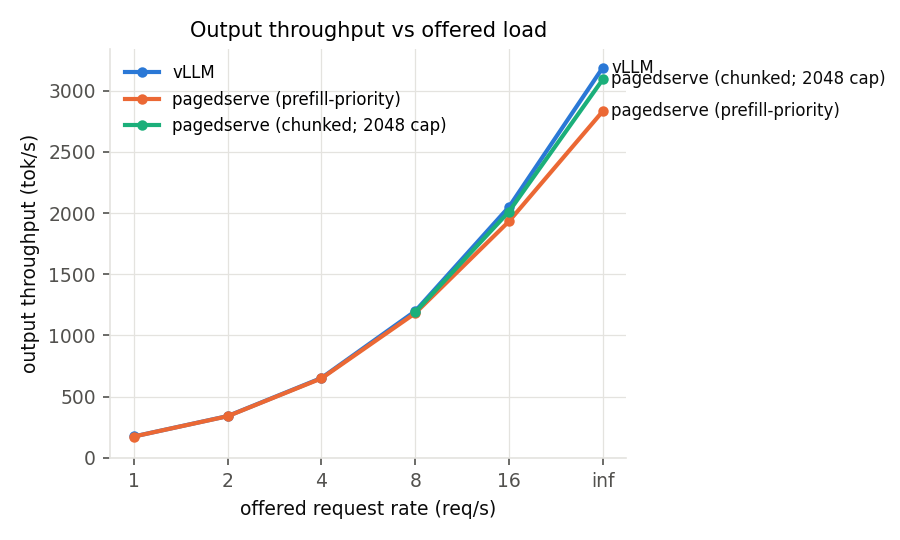
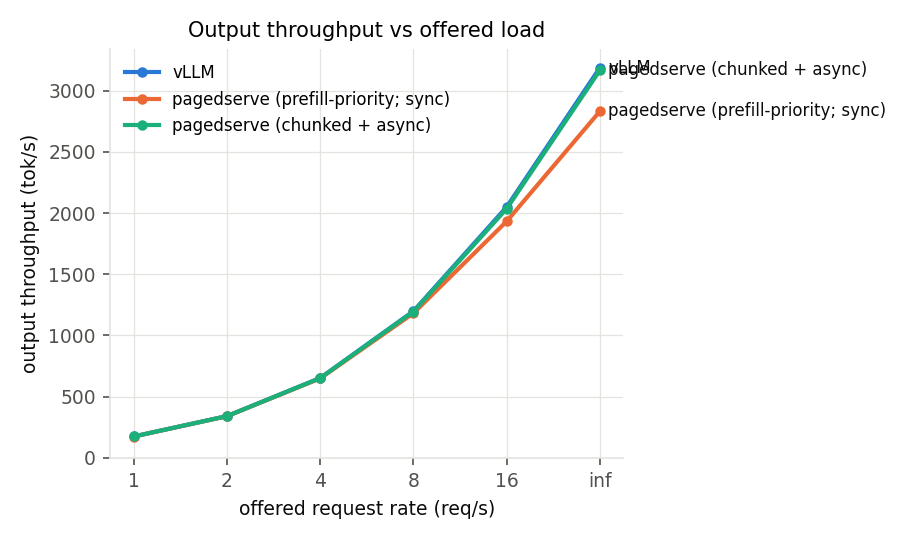
7B measured with the new defaults: v7 (async + chunked) 3,166 tok/s = 99% of vLLM, TPOT 12.6/16.5 ms at 8/16 req/s; piecewise graphs cost 1% there (padded chunks are real compute at 7B), so piecewise defaults on only for checkpoints under 4 GB and chunked prefill on CUDA wherever the mixed step is n
Claude-Session: https://claude.ai/code/session_01JS2Me66WkkvXnWKiASyDpV

diff --git a/pagedserve/cli.py b/pagedserve/cli.py
@@ -28,16 +28,19 @@ def _add_engine_args(p: argparse.ArgumentParser) -> None:
     p.add_argument("--piecewise-cuda-graphs", dest="piecewise_cuda_graphs", action="store_true",
                    default=None,
                    help="also replay prefill / mixed (chunked-prefill) steps from per-layer graphs "
-                        "with attention run eagerly between them. Default: on whenever "
-                        "--enable-cuda-graphs is (A100, 0.5B: chunked prefill went from -11%% to "
-                        "+4%% at saturation, TTFT at 1 req/s 20 -> 9 ms)")
+                        "with attention run eagerly between them. Default: on with "
+                        "--enable-cuda-graphs for checkpoints under 4 GB (A100, 0.5B: chunked "
+                        "prefill went from -11%% to +4%% at saturation, TTFT at 1 req/s 20 -> 9 ms), "
+                        "off above (7B: -1%% and a longer TPOT tail, the bucket padding costs real "
+                        "compute there)")
     p.add_argument("--no-piecewise-cuda-graphs", dest="piecewise_cuda_graphs", action="store_false")
     p.add_argument("--enable-chunked-prefill", dest="enable_chunked_prefill", action="store_true",
                    default=None,
                    help="mix decode tokens and prompt chunks in every step; --max-num-batched-tokens "
-                        "becomes the per-step cap. Default: on for --device cuda (with piecewise CUDA "
-                        "graphs it wins at every model size measured: +8%% at 7B, +4%% at 0.5B), off "
-                        "otherwise; 2048-token cap unless --max-num-batched-tokens is given")
+                        "becomes the per-step cap. Default: on for --device cuda except for a small "
+                        "checkpoint served without CUDA graphs (an eager mixed step loses to a "
+                        "graph-replayed decode step: -11%% at 0.5B); +8%% at 7B, +4%% at 0.5B with "
+                        "piecewise graphs; 2048-token cap unless --max-num-batched-tokens is given")
     p.add_argument("--no-chunked-prefill", dest="enable_chunked_prefill", action="store_false")
     p.add_argument("--async-scheduling", dest="async_scheduling", action="store_true", default=None,
                    help="launch step N+1 before reading step N's tokens back (vLLM v1 style): the "
@@ -58,18 +61,23 @@ def checkpoint_bytes(model_dir: str | None) -> int:
         return 0
 
 
+SMALL_CHECKPOINT_BYTES = 4 * 1024 ** 3  # below: a step is launches; above: it is math
+
+
 def engine_config_from_args(args: argparse.Namespace) -> EngineConfig:
     cuda = args.device.startswith("cuda")
+    small = checkpoint_bytes(args.model) < SMALL_CHECKPOINT_BYTES
     piecewise = args.piecewise_cuda_graphs
     if piecewise is None:
-        piecewise = bool(args.enable_cuda_graphs)
+        # Piecewise graphs trade bucket padding (compute) for launches (CPU). A100: at 0.5B
+        # chunked prefill went from -11% to +4% at saturation and TTFT halved; at 7B the
+        # padded chunk costs real FLOPs (-1%, TPOT tail 16.5 -> 19.9 ms at 16 req/s).
+        piecewise = bool(args.enable_cuda_graphs) and small
     chunked = args.enable_chunked_prefill
     if chunked is None:
-        # With piecewise graphs a mixed step replays from graphs too, and chunked prefill
-        # wins at every size measured on the A100 (7B: +8%; 0.5B: +4% and half the TTFT).
-        # Without them mixed steps run eagerly, which cost 11% at 0.5B; then it is only
-        # worth it from a few billion parameters up.
-        chunked = cuda and (piecewise or checkpoint_bytes(args.model) >= 4 * 1024 ** 3)
+        # Chunked prefill wins wherever the mixed step is not paying eager launch overhead:
+        # +8% at 7B (any mode), +4% at 0.5B on piecewise graphs, -11% at 0.5B eagerly.
+        chunked = cuda and (piecewise or not small)
     budget = args.max_num_batched_tokens
     if budget is None:
         budget = 2048 if chunked else 8192

diff --git a/tests/test_server.py b/tests/test_server.py
@@ -309,11 +309,11 @@ def test_cli_defaults_by_device_and_checkpoint_size(tmp_path):
         return engine_config_from_args(build_parser().parse_args(["serve", "--model", str(tmp_path), *extra]))
 
     (tmp_path / "model.safetensors").write_bytes(b"\0" * 1024)  # a tiny checkpoint
-    # CUDA + graphs: piecewise graphs on, hence chunked prefill on at any size
+    # small + graphs: piecewise on, hence chunked prefill on
     c = cfg("--device", "cuda", "--enable-cuda-graphs")
     assert c.async_scheduling and c.piecewise_cuda_graphs and c.enable_chunked_prefill
     assert c.max_num_batched_tokens == 2048
-    # CUDA without graphs: mixed steps would run eagerly, so a tiny checkpoint stays prefill-priority
+    # small without graphs: mixed steps would run eagerly, so it stays prefill-priority
     c = cfg("--device", "cuda")
     assert c.async_scheduling and not c.piecewise_cuda_graphs and not c.enable_chunked_prefill
     assert c.max_num_batched_tokens == 8192
@@ -323,9 +323,11 @@ def test_cli_defaults_by_device_and_checkpoint_size(tmp_path):
     assert not c.piecewise_cuda_graphs and not c.enable_chunked_prefill and not c.async_scheduling
     c = cfg("--device", "cuda", "--enable-chunked-prefill")
     assert c.enable_chunked_prefill and c.max_num_batched_tokens == 2048
-    # a big checkpoint (sparse file: size without the bytes) turns chunked prefill on even eagerly
+    # a big checkpoint (sparse file: size without the bytes): chunked on, piecewise off
     big = tmp_path / "model-00002.safetensors"
     with open(big, "wb") as f:
         f.truncate(5 * 1024 ** 3)
-    c = cfg("--device", "cuda")
-    assert c.enable_chunked_prefill and c.max_num_batched_tokens == 2048
+    c = cfg("--device", "cuda", "--enable-cuda-graphs")
+    assert c.enable_chunked_prefill and not c.piecewise_cuda_graphs and c.max_num_batched_tokens == 2048
+    c = cfg("--device", "cuda", "--enable-cuda-graphs", "--piecewise-cuda-graphs")
+    assert c.piecewise_cuda_graphs

diff --git a/deploy/runpod/handler.py b/deploy/runpod/handler.py
@@ -17,7 +17,8 @@ the chunks aggregated (`return_aggregate_stream`).
 Environment (all optional): MODEL_DIR (a snapshot baked into the image; default
 /models/model), MODEL_REPO (download at cold start instead), DTYPE (float16), ATTN_BACKEND
 (paged_flash), BLOCK_SIZE (256), MAX_MODEL_LEN (4096), MAX_NUM_SEQS (256), CUDA_GRAPHS (1),
-PIECEWISE_CUDA_GRAPHS (1), CHUNKED_PREFILL (default: on with piecewise graphs),
+PIECEWISE_CUDA_GRAPHS (default: on for checkpoints under 4 GB), CHUNKED_PREFILL (default: on
+except small checkpoints without graphs),
 ASYNC_SCHEDULING (1), MAX_CONCURRENCY (jobs per worker, 64).
 """
 
@@ -41,10 +42,14 @@ def env(name: str, default: str) -> str:
 def engine_config(model_dir: str | None = None) -> EngineConfig:
     """Same defaults as `pagedserve serve --device cuda`: CUDA graphs (full-step for decode,
     piecewise for prefill / mixed steps), chunked prefill, async scheduling."""
+    from pagedserve.cli import SMALL_CHECKPOINT_BYTES, checkpoint_bytes
+
     graphs = env("CUDA_GRAPHS", "1") == "1"
-    piecewise = env("PIECEWISE_CUDA_GRAPHS", "1") == "1" and graphs
+    small = checkpoint_bytes(model_dir) < SMALL_CHECKPOINT_BYTES
+    forced_pw = os.environ.get("PIECEWISE_CUDA_GRAPHS")
+    piecewise = graphs and (forced_pw == "1" if forced_pw is not None else small)
     forced = os.environ.get("CHUNKED_PREFILL")
-    chunked = forced == "1" if forced is not None else piecewise
+    chunked = forced == "1" if forced is not None else (piecewise or not small)
     return EngineConfig(
         device="cuda", dtype=EngineConfig.dtype_from_str(env("DTYPE", "float16")),
         attn_backend=env("ATTN_BACKEND", "paged_flash"), block_size=int(env("BLOCK_SIZE", "256")),

diff --git a/README.md b/README.md
@@ -44,8 +44,8 @@ Against vLLM on the A100 with Qwen2.5-0.5B: throughput parity to 16 req/s (100%)
 latency than vLLM at every offered rate (TPOT 1.8 vs 2.0 ms and TTFT 9.4 vs 12.9 ms at
 1 req/s; TPOT 6.0 vs 8.1 ms at saturation), 92% of its saturation throughput, up from 23% at
 the first measurement the same night. At 7B (Qwen2.5-7B-Instruct) both engines sit on the
-weight-read floor and pagedserve reaches 97% of vLLM at saturation once chunked prefill is
-on; DeepSeek-R1-Distill-Llama-8B runs on the same code, and Moonlight-16B-A3B (DeepSeek-V3's
+weight-read floor and pagedserve reaches 99% of vLLM at saturation with chunked prefill and
+async scheduling; DeepSeek-R1-Distill-Llama-8B runs on the same code, and Moonlight-16B-A3B (DeepSeek-V3's
 latent attention + MoE) reaches 84% with a batch-1 step of 6.2 ms against vLLM's 7.1 ms
 TPOT. The [gap analysis](#the-gap-against-vllm) has the per-phase profile and the eight
 fixes it drove, in order; [Models](#models) has the per-model table.
@@ -196,8 +196,10 @@ each decoder layer is three pieces, `pre` (input norm + residual add, projection
 per-layer graphs on rows padded up to a token bucket, and padded rows never reach the KV
 cache. A mixed step is then two replays plus the attention launches per layer. On the A100
 it turned chunked prefill at 0.5B from an 11% loss into a 4% gain (14,904 tok/s) and halved
-TTFT at low load (9.4 ms vs 19.8 eager, vLLM 12.9), so it is the default whenever CUDA
-graphs are on, and chunked prefill is the default at every model size.
+TTFT at low load (9.4 ms vs 19.8 eager, vLLM 12.9). At 7B it costs 1%: the padded chunk is
+real compute there. So it is the default for checkpoints under 4 GB, and chunked prefill is
+the default on CUDA wherever the mixed step is not eager (everywhere but a small model
+served without graphs).
 
 ## Correctness
 
@@ -429,7 +431,7 @@ prompt ids drawn from each model's own vocabulary.
 | model | arch | golden vs HF | batch-1 forward | weight-read floor | saturation tok/s, pagedserve / vLLM | TPOT p50 @ 8 req/s |
 |---|---|---|---:|---:|---:|---:|
 | Qwen2.5-0.5B-Instruct | qwen2, 24L, GQA 14/2, D=64 | exact (fp32), all tokens (fp16) | 1.9 ms | ~0.9 ms | **14,904 / 16,269 (92%)** | **2.0** / 2.1 ms |
-| Qwen2.5-7B-Instruct | qwen2, 28L, GQA 28/4, D=128 | all tokens (fp16) | 10.1 ms | ~10 ms | **3,092 / 3,188 (97%)** | 13.2 / 10.6 ms |
+| Qwen2.5-7B-Instruct | qwen2, 28L, GQA 28/4, D=128 | all tokens (fp16) | 10.1 ms | ~10 ms | **3,166 / 3,188 (99%)** | 12.6 / 10.6 ms |
 | DeepSeek-R1-Distill-Llama-8B | llama (3.1), 32L, GQA 32/8, D=128, llama3 rope | all tokens (fp16) | 10.8 ms | ~11 ms | 2,519 / 2,823 (89%) ¹ | 19.0 / 12.2 ms ¹ |
 | Moonshot Moonlight-16B-A3B-Instruct | deepseek_v3, 27L, MLA (kv_lora 512 + rope 64), 64 experts top-6 + 2 shared, 3B active | all tokens (bf16; 2–3 tie-breaks inside noise, both paths) | 6.2 ms ² | ~3 ms (3B active + 0.7 GB lm_head) | **2,697 / 3,223 (84%)** ³ | 18.8 / 13.4 ms ³ |
 
@@ -448,9 +450,13 @@ vLLM's 11.5. Chunked prefill (decode rows and a prompt chunk in one step) brings
 tok/s, the same 112 ms p99 tail vLLM shows); a 512-token cap trades 6% of that throughput
 for a 42 ms tail. The first chunked run measured 2x *slower*: the mixed-step attention path
 padded every sequence's queries to the chunk length (100k padded queries per layer at 200
-decodes plus one chunk); the fix batches the decode rows and pads only the chunk rows. The
-residual at 16 req/s is that a mixed step runs eagerly, outside CUDA graphs; vLLM's
-piecewise graphs keep everything but attention captured. Any `model_type: qwen2 | llama | mistral | deepseek_v2 | deepseek_v3` snapshot loads with
+decodes plus one chunk); the fix batches the decode rows and pads only the chunk rows.
+Async scheduling then took it to 99% (3,166 tok/s) and 16.5 ms at 16 req/s
+(`results/pagedserve_7b_flash_v7.json`). Piecewise CUDA graphs, the fix for the same
+eager mixed steps at 0.5B, *lose* 1% here and lengthen the tail (19.9 ms at 16 req/s): a
+7B chunk is compute-bound, so padding it up to a token bucket costs real FLOPs, whereas at
+0.5B the launches it removes were the whole cost. Hence the default is by size (piecewise
+below 4 GB); finer token buckets would likely recover the 7B case. Any `model_type: qwen2 | llama | mistral | deepseek_v2 | deepseek_v3` snapshot loads with
 `scripts/download_model.py --repo <hf repo>`; DeepSeek-R1-Distill-Qwen, Mistral-7B and
 DeepSeek-V2-Lite are the same code paths as the rows above.
 
@@ -552,6 +558,7 @@ deploy/runpod/         Serverless worker (handler.py), Dockerfile, deploy notes
 ## Roadmap
 
 * Close the last 8% at 0.5B saturation: TTFT there is 543 vs 421 ms, a matter of how many prompt pieces are admitted per step at the very start of a burst (a smaller first chunk, or vLLM-style prefill token budgeting).
+* Finer token buckets (or bucket-free capture) for piecewise graphs, so the padded chunk stops costing compute at 7B and the mode can be the default at every size.
 * Moonlight: close the remaining gap at batch 1 (per-kernel profile: `scripts/profile_step.py --kernels 1,128`).
 * Chunked-prefill ablation on a long-prompt trace.
 * Hosted-API footnote (DeepSeek, Kimi via OpenRouter) through `--base-url`.

diff --git a/README_GPU.md b/README_GPU.md
@@ -34,14 +34,16 @@ time; `nvidia-smi --query-gpu=memory.used --format=csv` should read ~0 MiB befor
 
 `pagedserve serve --device cuda --enable-cuda-graphs` defaults to the engine in its own
 process (`--no-engine-process` for the single-process path), async scheduling
-(`--no-async-scheduling`), piecewise CUDA graphs for prefill and mixed steps
-(`--no-piecewise-cuda-graphs`), and chunked prefill with a 2048-token per-step cap
+(`--no-async-scheduling`), chunked prefill with a 2048-token per-step cap
 (`--no-chunked-prefill`; `--max-num-batched-tokens 512` for a tighter TPOT tail at ~6%
-throughput). All measured on the A100 with Qwen2.5-0.5B: the process split took
-saturation from 10.6k to 13.9k tok/s, async scheduling to 14.4k, chunked prefill on
-piecewise graphs to 14.9k (chunked prefill on *eager* mixed steps was 12.8k, which is why
-without `--enable-cuda-graphs` chunked prefill defaults on only for checkpoints of 4 GB and
-up). At 7B chunked prefill took the engine from 89% to 97% of vLLM.
+throughput), and, for checkpoints under 4 GB, piecewise CUDA graphs for prefill and mixed
+steps (`--piecewise-cuda-graphs` / `--no-piecewise-cuda-graphs` to force). Measured on the
+A100 with Qwen2.5-0.5B: the process split took saturation from 10.6k to 13.9k tok/s, async
+scheduling to 14.4k, chunked prefill on piecewise graphs to 14.9k (chunked prefill on
+*eager* mixed steps was 12.8k, which is why a small checkpoint served without graphs stays
+prefill-priority). Qwen2.5-7B: chunked prefill took it from 89% to 97% of vLLM and async
+scheduling to 99% (3,166 tok/s); piecewise graphs there cost 1% and a longer tail, because
+the padded chunk is real compute at that size, so they are off by default above 4 GB.
 
 ### Async scheduling A/B
 
